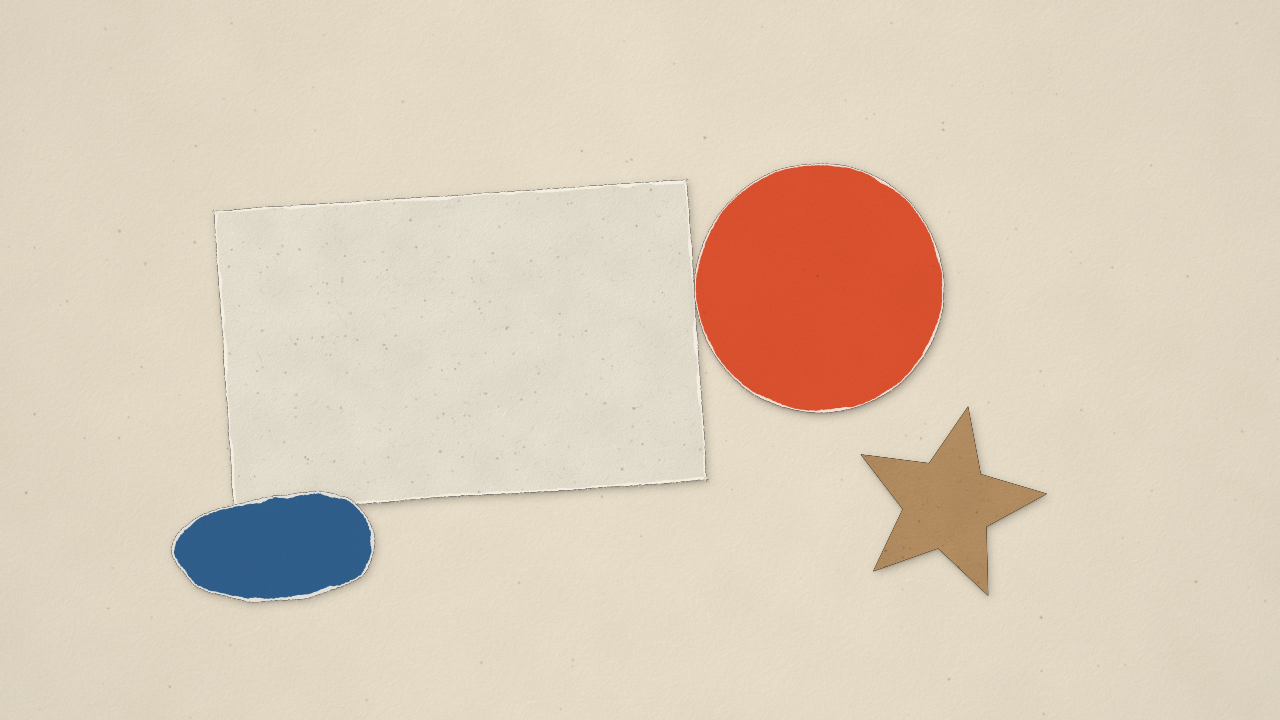
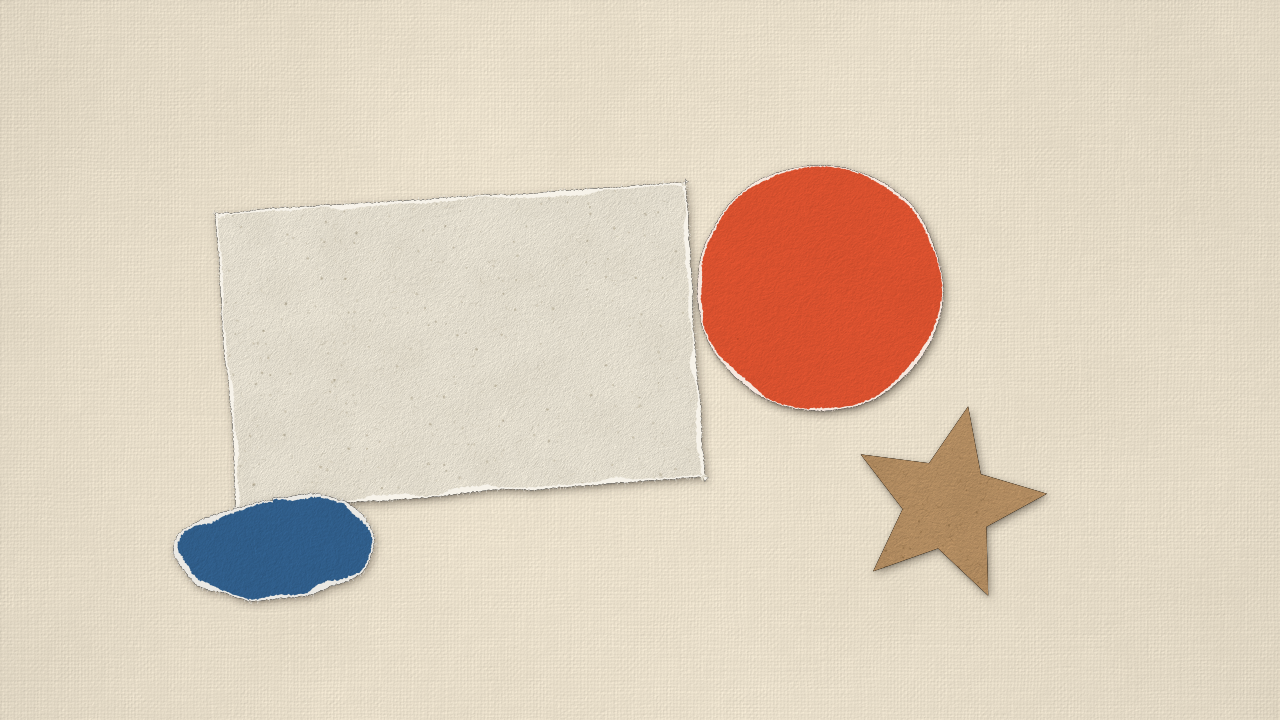
video: paper stock key, stronger tooth, looped scribble, deeper tears
Claude-Session: https://claude.ai/code/session_01YBqayZhtLQZUoDivv8TjYD

diff --git a/crates/anikit-video/src/components/illus_fill.rs b/crates/anikit-video/src/components/illus_fill.rs
@@ -284,33 +284,37 @@ impl Hatch {
                         let y = bb.1 + (j as f32 + hash01(hs ^ 0x9e37)) * g;
                         let t = self.tone_at(x, y, bb);
                         // Ordered threshold: denser dots in shadow.
-                        if hash01(hs ^ 0x51ed) < t * t * 1.1 {
-                            let r = self.width * (0.45 + 0.35 * hash01(hs ^ 0xabc)) * (0.8 + 0.4 * t);
+                        if hash01(hs ^ 0x51ed) < t * 1.05 {
+                            let r = self.width * (0.55 + 0.4 * hash01(hs ^ 0xabc)) * (0.8 + 0.4 * t);
                             dots.extend(kurbo::Circle::new((x as f64, y as f64), r as f64).path_elements(0.2));
                         }
                     }
                 }
             }
             "scribble" => {
-                // One continuous loopy line sweeping across the shape.
+                // One continuous line of small loops, sweeping back and forth across the shape.
                 let a = self.angle.to_radians();
                 let (ux, uy) = (a.cos(), a.sin());
                 let (vx, vy) = (-uy, ux);
                 let mut pts = Vec::new();
                 let mut v = -rad;
-                let mut th: f32 = 0.0;
-                let amp = rad;
-                while v < rad && pts.len() < 20000 {
-                    let o = amp * th.sin();
-                    let loop_r = s * 0.9 * (0.6 + 0.4 * vnoise2(th * 0.3, 1.0, seed));
-                    let x = cx + ux * (o + loop_r * th.cos() * 0.3) + vx * (v + loop_r * (th * 7.0).sin() * 0.5 * jit);
-                    let y = cy + uy * (o + loop_r * th.cos() * 0.3) + vy * (v + loop_r * (th * 7.0).sin() * 0.5 * jit);
-                    pts.push((x, y));
-                    let t = self.tone_at(x, y, bb).max(0.05);
-                    let dth = 0.09;
-                    th += dth;
-                    // Advance across lines slower where it is darker.
-                    v += s * 0.5 * dth / std::f32::consts::PI / t * (0.8 + 0.4 * rng.f());
+                let mut dir = 1.0f32;
+                let loop_r = s * 0.9;
+                let nloops = (2.0 * rad / (loop_r * 0.9)).ceil().max(4.0) as usize;
+                let per = 10usize;
+                while v < rad && pts.len() < 60000 {
+                    let tc = self.tone_at(cx + vx * v, cy + vy * v, bb).max(0.08);
+                    let sv = s / tc.powf(0.8);
+                    for i in 0..nloops * per {
+                        let f = i as f32 / (nloops * per) as f32;
+                        let ph = f * nloops as f32 * std::f32::consts::TAU + rng.range(-0.15, 0.15) * jit;
+                        let lr = loop_r * (0.7 + 0.5 * vnoise2(f * 9.0, v * 0.05, seed));
+                        let uu = dir * (-rad + 2.0 * rad * f) + lr * ph.cos();
+                        let vv = v + sv * f + lr * 0.8 * ph.sin();
+                        pts.push((cx + ux * uu + vx * vv, cy + uy * uu + vy * vv));
+                    }
+                    v += sv;
+                    dir = -dir;
                 }
                 let mut p = Path::new();
                 if let Some(f) = pts.first() {
@@ -495,12 +499,12 @@ pub fn paper_field(kind: &str, color: Rgba, tooth: f32, fibers: f32, vignette: f
     let mut rng = Rng::new(seed as u64 * 31 + 7);
     let area = (w * h) as f32;
     let (count, len, dark, hamp, fleck) = match kind {
-        "cotton" => (area / 220.0, (12.0, 45.0), -0.05, 0.35, 0.0),
-        "kraft" => (area / 300.0, (6.0, 30.0), -0.10, 0.2, area / 900.0),
-        "newsprint" => (area / 500.0, (4.0, 18.0), -0.12, 0.1, area / 1400.0),
-        "watercolor" => (area / 900.0, (10.0, 40.0), 0.03, 0.25, 0.0),
-        "canvas" => (area / 3000.0, (6.0, 20.0), 0.04, 0.2, 0.0),
-        _ => (area / 700.0, (8.0, 35.0), 0.035, 0.25, area / 9000.0),
+        "cotton" => (area / 260.0, (14.0, 50.0), 0.07, 0.5, 0.0),
+        "kraft" => (area / 300.0, (6.0, 30.0), -0.16, 0.3, area / 700.0),
+        "newsprint" => (area / 450.0, (4.0, 18.0), -0.14, 0.15, area / 1200.0),
+        "watercolor" => (area / 1200.0, (10.0, 40.0), 0.05, 0.35, 0.0),
+        "canvas" => (area / 3000.0, (6.0, 20.0), 0.06, 0.3, 0.0),
+        _ => (area / 800.0, (8.0, 35.0), 0.06, 0.35, area / 20000.0),
     };
     let count = (count * fibers * 2.0) as usize;
     let splat = |x: f32, y: f32, a: f32, ha: f32, alb: &mut [f32], hgt: &mut [f32]| {
@@ -549,9 +553,9 @@ pub fn paper_field(kind: &str, color: Rgba, tooth: f32, fibers: f32, vignette: f
     // Light it: emboss from the top left, then albedo and vignette.
     let base = lin3(color);
     let tooth_k = tooth * match kind {
-        "canvas" => 0.16,
-        "watercolor" => 0.14,
-        _ => 0.11,
+        "canvas" => 0.30,
+        "watercolor" => 0.30,
+        _ => 0.24,
     };
     let mut out = Lin::new(w, h);
     let (cx, cy) = (w as f32 * 0.5, h as f32 * 0.5);
@@ -581,7 +585,8 @@ pub fn paper_field(kind: &str, color: Rgba, tooth: f32, fibers: f32, vignette: f
 #[serde(default, deny_unknown_fields)]
 pub struct Paper {
     /// `"paper"` (default), `"cotton"`, `"kraft"`, `"canvas"`, `"watercolor"` or `"newsprint"`.
-    pub kind: String,
+    /// (`kind` is the component name in a spec layer, so the stock is `stock`.)
+    pub stock: String,
     /// Stock colour (default per kind).
     pub color: Option<Color>,
     /// Surface relief 0..1 (default 0.6).
@@ -594,12 +599,12 @@ pub struct Paper {
 }
 impl Default for Paper {
     fn default() -> Self {
-        Paper { kind: "paper".into(), color: None, tooth: 0.6, fibers: 0.5, vignette: 0.3, seed: 1 }
+        Paper { stock: "paper".into(), color: None, tooth: 0.6, fibers: 0.5, vignette: 0.3, seed: 1 }
     }
 }
 impl Prepare for Paper {
     fn prepare(&mut self) -> Result<(), Error> {
-        check_one("paper kind", &self.kind, PAPER_KINDS)
+        check_one("paper stock", &self.stock, PAPER_KINDS)
     }
 }
 
@@ -616,8 +621,8 @@ fn bytemuck_f(v: &[f32]) -> Vec<u8> {
 impl Component for Paper {
     fn eval(&self, _t: f32, ctx: &Ctx) -> Vec<Op> {
         let (w, h) = (ctx.width.ceil().clamp(4.0, 4096.0) as usize, ctx.height.ceil().clamp(4.0, 4096.0) as usize);
-        let color = self.color.map(|c| c.0).unwrap_or_else(|| paper_default(&self.kind));
-        let id = paper_image(ctx, &self.kind, color, self.tooth, self.fibers, self.vignette, self.seed, w, h);
+        let color = self.color.map(|c| c.0).unwrap_or_else(|| paper_default(&self.stock));
+        let id = paper_image(ctx, &self.stock, color, self.tooth, self.fibers, self.vignette, self.seed, w, h);
         vec![Op::Image { image: id, dst: [0.0, 0.0, w as f32, h as f32], opacity: 1.0, transform: IDENTITY }]
     }
 }
@@ -701,10 +706,10 @@ impl Cutout {
             // Irregular tear: big wander plus fine ragged teeth.
             let tear = |i: usize, sx: u32| {
                 let u = i as f32 * 2.0;
-                -tn * (4.0 + 5.0 * (fbm2(u / 70.0, 0.5, 3, sd ^ sx) * 0.5 + 0.5) + 1.6 * vnoise2(u / 3.0, 2.0, sd ^ sx ^ 1).abs())
+                -tn * (4.0 + 12.0 * (fbm2(u / 90.0, 0.5, 4, sd ^ sx) * 0.5 + 0.5) + 2.5 * vnoise2(u / 3.0, 2.0, sd ^ sx ^ 1).abs() + 1.2 * vnoise2(u / 1.2, 5.0, sd ^ sx ^ 2).abs())
             };
             let o = displaced(&r, |i, _| tear(i, 1) + tn * 2.0);
-            let rim = |i: usize| tear(i, 1) + tn * 2.0 - tn * (2.5 + 5.0 * (vnoise2(i as f32 * 2.0 / 25.0, 7.0, sd ^ 3) * 0.5 + 0.5).powi(2)) - tn * 1.0 * vnoise2(i as f32 * 2.0 / 2.5, 1.0, sd ^ 4).abs();
+            let rim = |i: usize| tear(i, 1) + tn * 2.0 - tn * (2.0 + 9.0 * (vnoise2(i as f32 * 2.0 / 40.0, 7.0, sd ^ 3) * 0.5 + 0.5).powi(2)) - tn * 1.8 * vnoise2(i as f32 * 2.0 / 2.5, 1.0, sd ^ 4).abs();
             let inn = displaced(&r, |i, _| rim(i));
             outer.extend(o.iter());
             inner.extend(inn.iter());
@@ -713,7 +718,7 @@ impl Cutout {
             let area: f32 = (0..n).map(|i| r[i].0 * r[(i + 1) % n].1 - r[(i + 1) % n].0 * r[i].1).sum();
             let sign = if area > 0.0 { 1.0 } else { -1.0 };
             for i in (0..n).step_by(2) {
-                if rng.f() > 0.35 * tn {
+                if rng.f() > 0.6 * tn {
                     continue;
                 }
                 let (a, b) = (r[(i + n - 1) % n], r[(i + 1) % n]);
@@ -723,7 +728,7 @@ impl Cutout {
                 let e = tear(i, 1) + tn * 2.0;
                 let (px, py) = (r[i].0 + nx * (e - 0.5), r[i].1 + ny * (e - 0.5));
                 let ang = ny.atan2(nx) + rng.range(-0.9, 0.9);
-                let fl = rng.range(1.5, 5.0) * tn;
+                let fl = rng.range(1.5, 6.0) * tn;
                 fib.move_to((px as f64, py as f64));
                 fib.quad_to(((px + ang.cos() * fl * 0.5 + rng.range(-1.0, 1.0)) as f64, (py + ang.sin() * fl * 0.5 + rng.range(-1.0, 1.0)) as f64), ((px + ang.cos() * fl) as f64, (py + ang.sin() * fl) as f64));
             }
@@ -772,7 +777,7 @@ impl Component for Cutout {
         if self.shadow > 0.0 {
             let sh = self.shadow;
             let (sdx, sdy) = (3.0 + 10.0 * lift, 5.0 + 16.0 * lift);
-            out.push(Op::PushLayer { opacity: 1.0, blend: dl::Blend::Multiply, filters: vec![dl::Filter::Shadow { dx: sdx, dy: sdy, blur: 6.0 + 14.0 * lift, color: Rgba([0.12, 0.08, 0.05, (0.45 * sh) * (1.0 - 0.4 * lift)]) }], clip: None, cache_key: None });
+            out.push(Op::PushLayer { opacity: 1.0, blend: dl::Blend::Multiply, filters: vec![dl::Filter::Shadow { dx: sdx, dy: sdy, blur: 6.0 + 14.0 * lift, color: Rgba([0.12, 0.08, 0.05, (0.7 * sh) * (1.0 - 0.4 * lift)]) }], clip: None, cache_key: None });
             out.push(fill_op(outer.clone(), Rgba([0.0, 0.0, 0.0, 1.0]), m));
             out.push(Op::PopLayer);
             // Contact shadow, tight.
@@ -786,7 +791,7 @@ impl Component for Cutout {
             None => self.color.0,
         };
         if self.torn > 0.001 {
-            let rim = mix(base, Rgba([0.97, 0.95, 0.9, 1.0]), 0.82);
+            let rim = mix(base, Rgba([0.98, 0.965, 0.93, 1.0]), 0.88);
             out.push(fill_op(outer.clone(), rim, m));
             out.push(Op::Stroke { path: fib, paint: dl::Paint::Solid(alpha(rim, 0.9)), stroke: super::style::line(0.7, [0.0, 1.0]), transform: m });
         }
@@ -799,7 +804,7 @@ impl Component for Cutout {
             None => ("paper", base),
         };
         // Flat colours still get a faint paper grain so they don't look vector-flat.
-        let (tooth, fibers) = if self.texture.is_some() { (0.7, 0.6) } else { (0.45, 0.25) };
+        let (tooth, fibers) = if self.texture.is_some() { (0.8, 0.6) } else { (0.7, 0.35) };
         let id = paper_image(ctx, kind, col, tooth, fibers, 0.0, s, bw.min(4096), bh.min(4096));
         out.push(Op::Image { image: id, dst: [x0 - 1.0, y0 - 1.0, bw as f32, bh as f32], opacity: 1.0, transform: m });
         out.push(Op::PopLayer);

diff --git a/crates/anikit-video/src/components/mod.rs b/crates/anikit-video/src/components/mod.rs
@@ -304,7 +304,7 @@ kinds! {
     "now-playing" => now_playing::NowPlaying, "A music app's Now Playing screen (390 pt grid): printed cover art, serif title, live scrubber with real timecodes, transport, volume.", r##"{"title":"Salt & Glass","artist":"Maren Holt"}"##;
     // Illustration
     "hatch" => illus_fill::Hatch, "Hand-drawn hatched, cross-hatched, stippled or scribbled fill of a shape, with a tone gradient from a light direction, wobble, boil and a line-by-line draw-on.", r##"{"shape":"circle","style":"crosshatch","toneFrom":0.2,"toneTo":0.9,"draw":1.5}"##;
-    "paper" => illus_fill::Paper, "Full-frame paper stock with real tooth: paper, cotton, kraft, canvas weave, cold-press watercolor or newsprint; computed once and dithered.", r##"{"kind":"watercolor"}"##;
+    "paper" => illus_fill::Paper, "Full-frame paper stock with real tooth: paper, cotton, kraft, canvas weave, cold-press watercolor or newsprint; computed once and dithered.", r##"{"stock":"watercolor"}"##;
     "cutout" => illus_fill::Cutout, "Cut or torn paper shape (flat colour or paper/kraft/newsprint stock) with a fibrous rim, lifted drop shadow, hand-placed wobble and a drop or slide entrance.", r##"{"shape":"blob","texture":"kraft","torn":0.7}"##;
     // Lottie
     "lottie" => lottie::Lottie, "Minimal Lottie player (shape layers, transforms, trim paths).", r##"{"src":"anim.json"}"##;

diff --git a/docs/video/components.md b/docs/video/components.md
@@ -715,7 +715,7 @@ Hand-made surfaces instead of UI-on-dark: hatching drawn on line by line, real p
 ### `paper`
 | Prop | Default | Meaning |
 |---|---|---|
-| `kind` | `"paper"` | `"paper"`, `"cotton"` (long fibres), `"kraft"` (brown with dark flecks), `"canvas"` (woven threads with slubs), `"watercolor"` (cold-press grain with mottled sizing), `"newsprint"` (grey, fine grain and specks). |
+| `stock` | `"paper"` | (`kind` names the component, so the stock is `stock`.) `"paper"`, `"cotton"` (long fibres), `"kraft"` (brown with dark flecks), `"canvas"` (woven threads with slubs), `"watercolor"` (cold-press grain with mottled sizing), `"newsprint"` (grey, fine grain and specks). |
 | `color` | per kind | Stock colour. |
 | `tooth`, `fibers` | `0.6`, `0.5` | Surface relief (lit from the top left) and amount of fibres and flecks, 0–1. |
 | `vignette`, `seed` | `0.3`, `1` | Edge darkening, and the seed. |
@@ -734,7 +734,7 @@ Computed once per size and cached as one dithered image: free after the first fr
 
 ```json
 { "layers": [
-  { "component": "paper", "props": { "kind": "watercolor" } },
+  { "component": "paper", "props": { "stock": "watercolor" } },
   { "component": "hatch", "props": { "shape": "circle", "style": "crosshatch", "toneFrom": 0.15, "toneTo": 0.95, "outline": true, "boil": 10, "draw": 1.8 }, "width": 520, "height": 520 },
   { "component": "cutout", "props": { "shape": "blob", "texture": "kraft", "torn": 0.7, "rotate": -8, "delay": 0.4 }, "x": "70%", "width": 360, "height": 260 }
 ] }
